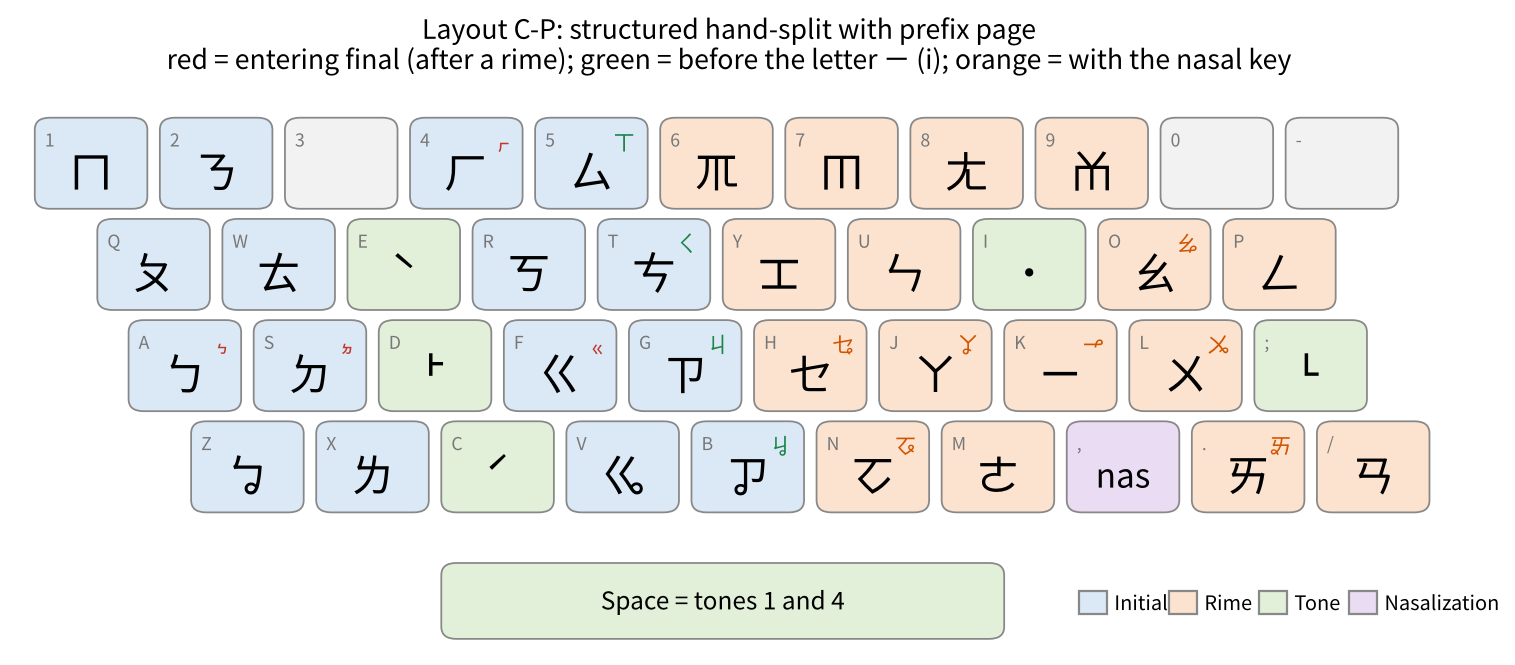
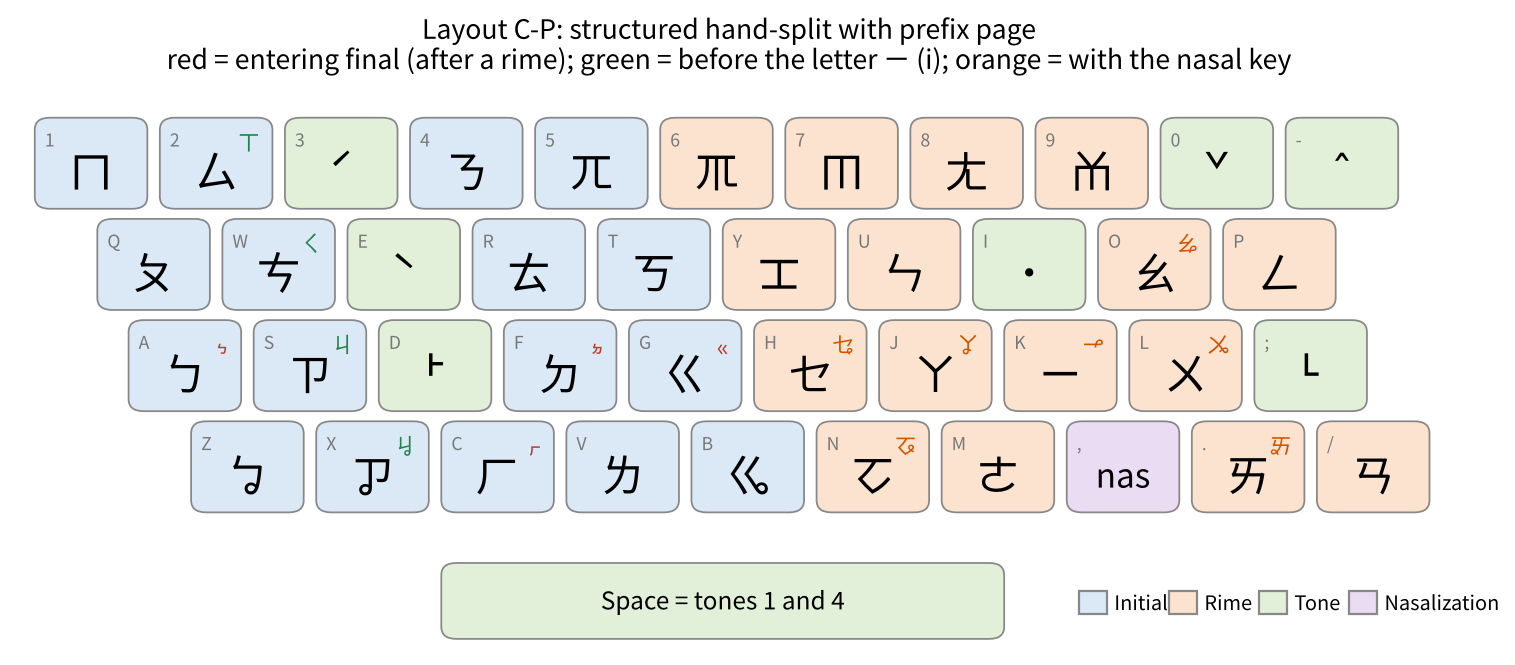
Layouts B and C: rare tones ˇ and ˆ on the free keys 0 and -; B-P and C-P keep the main layer of B and C
The two keys left free in Layouts B and C take ˇ (0) and ˆ (-) instead of the
secondary layer of ˋ and ˊ; scores unchanged (68.9, 73.6). Variant P now keeps
the main layer of every base layout, as A-P already did; P+ re-anneals with ˇ
and ˆ fixed on 0 and -. Chinese figure titles of the P variants aligned with
the layout names.

Claude-Session: https://claude.ai/code/session_01NAaUPmCiocEBpHhsM43Wwq

diff --git a/prefix_variants.py b/prefix_variants.py
@@ -1,10 +1,10 @@
-"""Prefix-key variants (A-P, B-P, C-P): rare symbols move from the main layer to a prefix page
-entered with ` then Tab (desktop) or the symbol key and a page tab (phone), on the key of a
-related symbol. The freed main-layer keys are re-optimized.
-  P  : ㄫ (0.03% of keystrokes) and the already-secondary ㆱ, ˇ, ˆ
-  P+ : additionally ㆡ, ㆭ, ㆰ (each 0.3-0.4%), to show the trend
-  Layout A-P has the main layer of Layout A unchanged (ㄫ on its key, ˇ on 3, ˆ on 5), so only
-  ㆱ (and the panel-only symbols) are on the prefix page.
+"""Prefix-key variants: rare units move from the main layer to a prefix page entered with
+` (first page; or ` then Tab for a separate page) on the desktop, or the symbol key on the phone,
+on the key of a related unit.
+  P  : the main layer of Layouts A, B and C unchanged (ㄫ on its key; ˇ ˆ on 3 and 5 in Layout A,
+       on 0 and - in Layouts B and C), so only ㆱ and the panel-only letters are on the prefix page.
+  P+ : additionally ㄫ, ㆡ, ㆭ and ㆰ (each 0.03-0.4%) move to the prefix page, to show the trend;
+       the freed keys are re-optimized, with ˇ ˆ (and ˫ ˪ in Layout A) kept on their keys.
 Usage: python prefix_variants.py        (optimize and score; out/prefix_variants.json, out/prefix_scores.csv)
        python prefix_variants.py score  (re-score the saved variants only)"""
 import json, itertools, csv, os
@@ -43,9 +43,11 @@ def run(args):
     if mode == 'A':   # as Layout A: ˇ on 3, ˆ on 5, and the tones ˫ ˪ on R and T
         fixed, allowed = opt.DAQIAN, opt.a_allowed(opt.U)
         allowed.update({t: opt.A_UPPER for t in ('˫', '˪')})
-    else: fixed, allowed = {}, {u: opt.LEFT for u in ini}
+    else:             # as Layouts B and C: initials on the left half, ˇ ˆ on 0 and -
+        fixed = {}
+        allowed = {u: (opt.LEFT if u in ini else opt.BC_CELLS) for u in opt.U}
     c, lay = opt.anneal(fixed, allowed, iters=ITERS, seed=seed)
-    if mode == 'A': lay = dict(lay, **opt.A_TONES)
+    lay = dict(lay, **(opt.A_TONES if mode == 'A' else opt.BC_TONES))
     return vname, mode, seed, (c, lay)
 
 def structured(base, moved):
@@ -76,9 +78,9 @@ def structured(base, moved):
             if u: lay[u] = cols[ci][r]
     for u, c in zip(extra, p2): lay[u] = c
     fixed = {u: c for u, c in lay.items() if u in opt.INITIALS or u in extra}
-    right = [c for c in opt.CELLS if c not in fixed.values()]
+    right = [c for c in opt.BC_CELLS if c not in fixed.values()]
     runs = [opt.anneal(fixed, {u: right for u in U if u not in fixed}, iters=150000, seed=s) for s in range(4)]
-    return min(runs, key=lambda r: r[0])[1]
+    return dict(min(runs, key=lambda r: r[0])[1], **opt.BC_TONES)
 
 def with_prefix(lay, moved, merged=False):
     from prefix_panel import panel
@@ -88,8 +90,9 @@ def with_prefix(lay, moved, merged=False):
     for e, b in {'ㆴ': 'ㄅ', 'ㆵ': 'ㄉ', 'ㆻ': 'ㄍ', 'ㆷ': 'ㄏ'}.items(): d[e] = (lay[b], 0)
     return d
 
-def a_p():
-    return json.load(open(OUT / 'layouts_proposed.json', encoding='utf-8'))['A']
+def base_layout(name):
+    """Variant P keeps the main layer of the base layout."""
+    return json.load(open(OUT / 'layouts_proposed.json', encoding='utf-8'))[name]
 
 def full_main(lay):
     return {u: (c, 0) for u, c in lay.items()}
@@ -121,9 +124,9 @@ if __name__ == '__main__':
     import sys
     if sys.argv[1:] == ['score']:
         score(); raise SystemExit
-    # A-P is not optimized (see a_p); the runs are rescored with the full model (TPS symbols on the
-    # first page of the panel) and the best run is kept, as in evaluate.best_run.
-    jobs = [(v, m, s) for v in VARIANTS for m in ('A', 'B') for s in SEEDS if (v, m) != ('P', 'A')]
+    # Variant P is not optimized (see base_layout); the P+ runs are rescored with the full model (TPS
+    # letters on the first page of the panel) and the best run is kept, as in evaluate.best_run.
+    jobs = [('P+', m, s) for m in ('A', 'B') for s in SEEDS]
     import layouts
     ref = model.evaluate(layouts.TPS, allo=True, tps_ent=True)
     model.PREFIX_TAB = False
@@ -136,9 +139,9 @@ if __name__ == '__main__':
             if (v, m) not in best or key < best[(v, m)][0]: best[(v, m)] = (key, lay)
     model.PREFIX_TAB = True
     res = {}
-    for v, moved in VARIANTS.items():
-        res[f'A-{v}'] = a_p() if v == 'P' else best[(v, 'A')][1]
-        res[f'B-{v}'] = best[(v, 'B')][1]
-        res[f'C-{v}'] = structured(best[(v, 'B')][1], moved)
+    for n in ('A', 'B', 'C'): res[f'{n}-P'] = base_layout(n)
+    res['A-P+'] = best[('P+', 'A')][1]
+    res['B-P+'] = best[('P+', 'B')][1]
+    res['C-P+'] = structured(best[('P+', 'B')][1], VARIANTS['P+'])
     json.dump(res, open(OUT / 'prefix_variants.json', 'w', encoding='utf-8'), ensure_ascii=False, indent=1)
     score(res)

diff --git a/evaluate.py b/evaluate.py
@@ -9,11 +9,11 @@ from units import syl_units
 
 ENT = {'ㆴ': 'ㄅ', 'ㆵ': 'ㄉ', 'ㆻ': 'ㄍ', 'ㆷ': 'ㄏ'}
 def full(lay):
-    """Proposed input logic: entering finals on ㄅㄉㄍㄏ, rare units on the secondary layer."""
+    """Proposed input logic: entering finals on ㄅㄉㄍㄏ; ㆱ, and ˇ ˆ where the layout has no key for them, on the secondary layer."""
     d = {u: (c, 0) for u, c in lay.items()}
     for e, b in ENT.items(): d[e] = d[b]
     d['ㆱ'] = (lay['ㆰ'], 1)
-    for t, b in (('ˇ', 'ˋ'), ('ˆ', 'ˊ')):   # main-layer key in Layout A, else the secondary layer
+    for t, b in (('ˇ', 'ˋ'), ('ˆ', 'ˊ')):   # main-layer key in Layouts A, B and C, else the secondary layer
         d[t] = (lay[t], 0) if t in lay else (lay[b], 1)
     return d
 
@@ -70,6 +70,9 @@ if __name__ == '__main__':
     prop = {'A': opt.a_learn(dict(best_run('A'), **opt.A_TONES)), 'B': best_run('B'), 'free': best_run('free')}
     assert {prop['A']['˫'], prop['A']['˪']} == set(opt.A_UPPER), 'Layout A: tones not on R and T'
     prop['C'] = structured(prop['B'])
+    for m in ('B', 'C'):   # the two keys B and C leave free take the rare tones ˇ and ˆ
+        assert not set(opt.BC_TONES.values()) & set(prop[m].values()), f'Layout {m}: 0 or - is taken'
+        prop[m] = dict(prop[m], **opt.BC_TONES)
     json.dump(prop, open(OUT / 'layouts_proposed.json', 'w', encoding='utf-8'), ensure_ascii=False, indent=1)
     ref = model.evaluate(layouts.TPS, allo=True, tps_ent=True)
     and_lay, and_pos = layouts.android(False)

diff --git a/figures_prefix.py b/figures_prefix.py
@@ -23,9 +23,9 @@ T = {'en': dict(nas='nas', space='Space = tones 1 and 4',
                         'C-P': 'Layout C-P: structured hand-split with prefix page'}),
      'zh': dict(nas='鼻', space='空白鍵＝第 1、4 聲', leg=['聲母', '韻母', '聲調', '鼻化'],
                 note='\n紅字＝入聲韻尾（接在韻母後）；綠字＝後接字母 ㄧ（i）時的同位音；橘字＝母音＋鼻化鍵',
-                titles={'A-P': '方案甲-P：大千保留型＋前置頁',
-                        'B-P': '方案乙-P：左右分區型＋前置頁',
-                        'C-P': '方案丙-P：結構化分區型＋前置頁'})}[LANG]
+                titles={'A-P': '方案甲-P：保留大千式＋前置頁',
+                        'B-P': '方案乙-P：左右分工＋前置頁',
+                        'C-P': '方案丙-P：結構化左右分工＋前置頁'})}[LANG]
 
 def cat(u):
     if u is None: return 'none'

diff --git a/opt.py b/opt.py
@@ -93,6 +93,10 @@ def a_learn(lay):
         if t in lay and i in lay: lay[t],lay[i]=lay[i],lay[t]
     return lay
 A_UPPER=['r','t']   # the keys the adjustment gives to ˫ and ˪
+# Layouts B and C leave two main-layer keys free, 0 and -; the rare tones ˇ (tone 6) and ˆ (tone 9) take them,
+# so that no unit except ㆱ needs Shift. Too rare to anneal; their keys are closed to the other units.
+BC_TONES={'ˇ':'0','ˆ':'-'}
+BC_CELLS=[c for c in CELLS if c not in BC_TONES.values()]
 if __name__=='__main__':
     mode=sys.argv[1];seed=int(sys.argv[2])
     # A = Dachien-preserving, B = hand-split (initials on the left half), free = unconstrained

diff --git a/README.md b/README.md
@@ -56,7 +56,7 @@ Expected output of step 4 (composite score: Taigi-TPS = 100, lower is better). T
 | `opt.py` | Simulated-annealing search for one configuration and seed |
 | `optimize_all.py` | Runs all configurations and seeds |
 | `evaluate.py` | Builds Layout C and scores all layouts |
-| `prefix_variants.py` | Variants that move rare symbols to a ` prefix page and re-optimize the freed keys (Layout A-P: fixed, see the docstring) |
+| `prefix_variants.py` | Prefix-key variants: P keeps the main layer of Layouts A, B and C and moves only ㆱ to the ` prefix page; P+ also moves ㄫ, ㆡ, ㆭ, ㆰ and re-optimizes the freed keys |
 | `sensitivity.py` | Sensitivity analysis of the model constants |
 | `tps_entering_variant.py` | Proposed layouts rescored with the Taigi-TPS entering key |
 | `input_rules.py` | Keys freed and syllables affected by each rule of the input logic |
